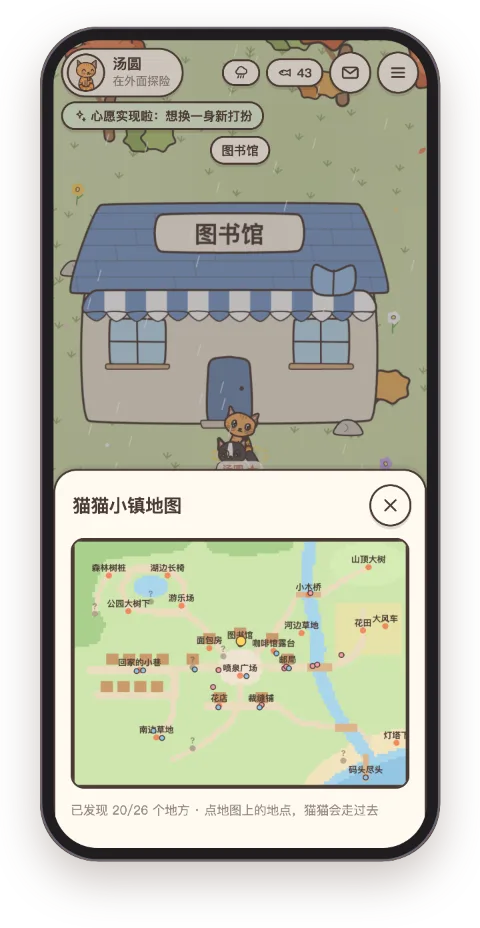
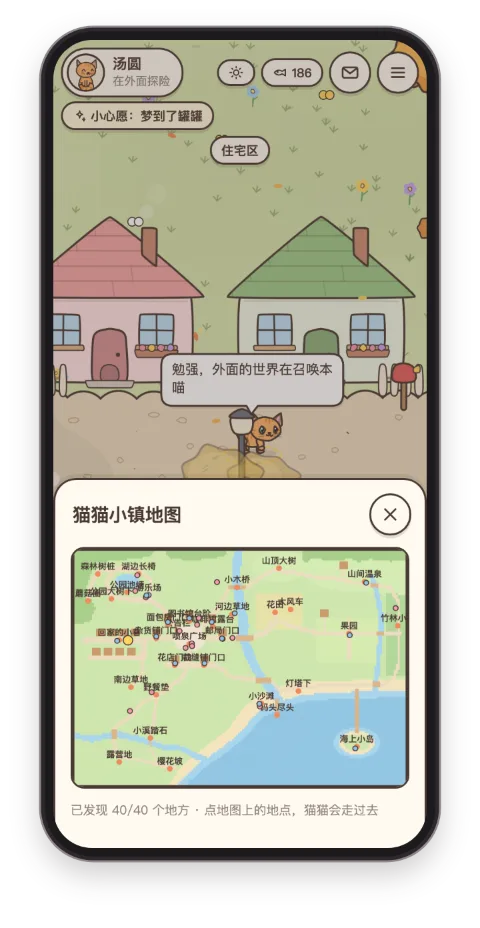
Town friends, docs and screenshots for the bigger town; ask old apps to update
- The cat's profile lists the residents it has got to know.
- Help tips mention the shops and the residents.
- README and website: the new places, the shops, the residents, with new
  screenshots (inside the bakery, a walk with 阿花, the hot spring, the map).
- Clients now say which world version they know; apps that carry the old
  map get one gentle note asking them to update.
- Errands usually go to someone nearby; walk chatter is shared between cats.

diff --git a/server/src/world.ts b/server/src/world.ts
@@ -2,7 +2,7 @@
 // their schedules, meetings, finds, and broadcasting to connected clients.
 import type { WebSocket } from 'ws';
 import type { CatRecord } from '../../shared/types';
-import type { EntState, ServerMsg, ClientMsg } from '../../shared/protocol';
+import { WORLD_VERSION, type EntState, type ServerMsg, type ClientMsg } from '../../shared/protocol';
 import { getWorld, getRooms, roomAt, roomById, planRoute, POIS, POI_MAP, TILE, HOME_SPAWN, walkableAt, zoneAt, poiPoint, ZONE_NAME, type Poi, type Leg, type Room } from '../../shared/world';
 import { roomOpen } from '../../shared/rooms';
 import { NPCS, NPC_MAP, scheduleAt, walkBusy, type NpcDef } from '../../shared/npcs';
@@ -78,6 +78,7 @@ interface Client {
   cats: Set<string>;
   lastPos: number;
   view: { x: number; y: number } | null; // camera centre; null = not watching the world
+  v: number; // world version the client knows (0 = an app from before the town grew)
 }
 
 /** Cosmetic, high-frequency messages only travel to players looking nearby. */
@@ -580,8 +581,8 @@ function tickCompanion(o: Ent, now: number): boolean {
   }
   if (clients.size && now - c.lastSay > 40_000 + (hashf(now) * 30_000)) {
     c.lastSay = now;
-    const name = leader!.st.name;
-    if (o.npc) say(o, npcLine(personaOf(o.npc), `陪着${name}一起散步，走到了${place}`, o.npc.lines));
+    // lines about the place are shared by every cat the resident walks with
+    if (o.npc) say(o, npcLine(personaOf(o.npc), `陪着一只小猫一起散步，走到了${place}`, o.npc.lines));
     else if (o.cat) say(o, catLine(o.cat, 'place', { place }));
   }
   return true;
@@ -675,8 +676,13 @@ async function doSpecial(e: Ent, o: Ent, c: Client, now: number) {
     diary = `${n.name}讲了一个故事：「${lines.join('')}」`;
   } else say(o, npcLine(personaOf(n), `${sp.done}，你对${cat.name}说的话`, n.lines));
   if (sp.errand) {
+    // usually someone nearby, now and then a little journey
     const to = NPCS.filter((x) => x.id !== n.id && x.id !== 'npc_night' && ents.has(x.id));
-    const target = to[Math.floor(Math.random() * to.length)];
+    const [ax, ay] = anchorOf(o.st.x, o.st.y);
+    const target = to.length ? new Rng(now).weighted(to.map((x) => {
+      const [bx, by] = anchorOf(ents.get(x.id)!.st.x, ents.get(x.id)!.st.y);
+      return [x, 1 / (1 + Math.hypot(bx - ax, by - ay) / (25 * TILE)) ** 2] as const;
+    })) : null;
     if (target) {
       setErrand(cat.id, { from: n.id, to: target.id, day: clockAt(now).day });
       diary = `${n.name}托我把一封信送给${target.name}。`;
@@ -1102,7 +1108,11 @@ setInterval(() => {
 }, 30_000).unref();
 
 export function onConnection(ws: WebSocket, uid: string | null, nickname: string) {
-  const c: Client = { ws, uid, nickname, cats: new Set(), lastPos: 0, view: null };
+  const c: Client = { ws, uid, nickname, cats: new Set(), lastPos: 0, view: null, v: 0 };
+  // apps from before the town grew carry the old map: ask them, once, to update
+  setTimeout(() => {
+    if (c.v < WORLD_VERSION && ws.readyState === 1) send(c, { t: 'event', kind: 'update', text: '猫窝更新啦：小镇变大了，店也能进去了。请到官网下载新版 App，网页刷新一下就好' });
+  }, 5000).unref();
   alive.add(ws);
   ws.on('pong', () => alive.add(ws));
   if (uid) for (const cat of game.catsOf(uid)) c.cats.add(cat.id);
@@ -1156,6 +1166,9 @@ function handle(c: Client, m: ClientMsg) {
   const now = Date.now();
   switch (m.t) {
     case 'ping':
+      return;
+    case 'hello':
+      c.v = Number(m.v) || 0;
       return;
     case 'view':
       if (Number.isFinite(m.x) && Number.isFinite(m.y)) c.view = { x: m.x, y: m.y };

diff --git a/client/home.html b/client/home.html
@@ -142,13 +142,26 @@
         <div class="feature">
           <div class="txt">
             <h3 class="px" data-px="14">窝外面，是一整个小镇</h3>
-            <p>喷泉广场、面包房、咖啡馆、图书馆、邮局、花店、公园池塘、森林、小河与木桥、花田风车和灯塔。<b>13 位猫猫居民</b>按自己的作息过日子，所有玩家的猫都在同一个小镇里，会在路上碰鼻子、交朋友。</p>
+            <p>喷泉广场、公园池塘、森林、小河与木桥、花田风车和灯塔；往东是山间温泉、果园和竹林，栈道通向海上小岛；往南有小溪踏石、露营地和樱花坡。所有玩家的猫都在同一个小镇里，会在路上碰鼻子、交朋友。</p>
             <p>看它自己逛，或者「接管」亲自带着它走。小镇有实时的昼夜、雨雪和四季。</p>
           </div>
           <div class="phones">
             <figure><img src="/site/img/phone-world.webp" width="480" height="928" loading="lazy" alt="小镇" /><figcaption>出门探险，捡回小宝贝</figcaption></figure>
-            <figure><img src="/site/img/phone-map.webp" width="480" height="928" loading="lazy" alt="小镇地图" /><figcaption>26 个地方，点一下就走过去</figcaption></figure>
+            <figure><img src="/site/img/phone-map.webp" width="480" height="928" loading="lazy" alt="小镇地图" /><figcaption>33 个地方和 7 家店，点一下就走过去</figcaption></figure>
             <figure><img src="/site/img/phone-social.webp" width="480" height="928" loading="lazy" alt="小镇邻里" /><figcaption>猫友是它自己交的</figcaption></figure>
+          </div>
+        </div>
+
+        <div class="feature">
+          <div class="txt">
+            <h3 class="px" data-px="14">店都能进去，居民会记得你</h3>
+            <p>面包房、咖啡馆、图书馆、杂货铺、邮局、花店和裁缝铺都能走进去坐坐，店主在柜台后面忙活。<b>16 位猫猫居民</b>按自己的作息过日子，每一位都有一件能和你的猫一起做的小事：尝口面包、听个故事、帮忙送信、泡个温泉……</p>
+            <p>常来常往，它们会记得你的猫，路过时叫它的名字；不忙的时候，还会陪它一起逛逛。</p>
+          </div>
+          <div class="phones">
+            <figure><img src="/site/img/phone-shop.webp" width="480" height="928" loading="lazy" alt="面包房里" /><figcaption>走进店里，尝口面包</figcaption></figure>
+            <figure><img src="/site/img/phone-walk.webp" width="480" height="928" loading="lazy" alt="一起散步" /><figcaption>阿花陪它一起逛逛</figcaption></figure>
+            <figure><img src="/site/img/phone-spring.webp" width="480" height="928" loading="lazy" alt="山间温泉" /><figcaption>山间温泉，泡一泡</figcaption></figure>
           </div>
         </div>
 

diff --git a/client/src/ui/Panels.tsx b/client/src/ui/Panels.tsx
@@ -695,6 +695,41 @@ function MapPanel() {
 }
 
 // ---------------- cat profile ----------------
+/** The residents this cat has got to know. */
+function TownFriends({ catId }: { catId: string }) {
+  const [list, setList] = useState<{ id: string; name: string; role: string; level: number; levelName: string; walks: number }[] | null>(null);
+  useEffect(() => {
+    api<typeof list>('GET', `/api/cat/${catId}/townsfolk`)
+      .then(setList)
+      .catch(() => setList([]));
+  }, [catId]);
+  if (!list?.length) return null;
+  return (
+    <>
+      <div class="sec">小镇朋友</div>
+      <div class="list">
+        {list.map((f) => (
+          <div class="row" key={f.id}>
+            <div class="grow">
+              <div class="t1">
+                {f.name}
+                <span class="muted" style={{ fontWeight: 400, marginLeft: 6 }}>
+                  {'♥'.repeat(f.level)}
+                  {'♡'.repeat(3 - f.level)} {f.levelName}
+                </span>
+              </div>
+              <div class="t2">
+                {f.role}
+                {f.walks > 0 ? ` · 一起散过 ${f.walks} 次步` : ''}
+              </div>
+            </div>
+          </div>
+        ))}
+      </div>
+    </>
+  );
+}
+
 function CatPanel() {
   const me = useStore(ui, (s) => s.me)!;
   const cat = me.cats.find((c) => c.id === me.activeCatId) ?? me.cats[0];
@@ -751,6 +786,7 @@ function CatPanel() {
           </div>
         </div>
       </div>
+      <TownFriends catId={cat.id} />
       <div class="sec">羁绊：{bl.name}（Lv.{bl.level}）</div>
       {stat('亲密', Math.min(100, (cat.stats.bond / Math.max(1, bl.next)) * 100), 'var(--pink)')}
       <div class="sec">现在的状态</div>
@@ -932,6 +968,8 @@ function HelpPanel() {
         <div>· 「逗猫」之后，移动鼠标或手指，羽毛会在房间里飞，往墙上举高它会跳起来抓。</div>
         <div>· 「出门」后可以在小镇里看它自己探险；点「接管」就能自己带着它走（键盘 WASD 或拖动屏幕）。</div>
         <div>· 右边的对话按钮可以跟它说话，比如“去河边看看”“回家睡觉”。</div>
+        <div>· 小镇的店都能进去坐坐。点一下店门口，就能带它进去；打烊以后要等第二天。</div>
+        <div>· 点小镇居民，可以和它们做点小事，或者请它们陪你的猫一起逛逛。常来常往，它们会记得你的猫。</div>
         <div>· 它会自己出门、捡回宝贝、交到朋友，晚上一定会回家。你不在的时候它也过得很好，不用担心。</div>
       </div>
     </Sheet>

diff --git a/tests/api.test.ts b/tests/api.test.ts
@@ -9,6 +9,7 @@ import { tmpdir } from 'node:os';
 import { join } from 'node:path';
 import { createServer } from 'node:http';
 import WebSocket from 'ws';
+import { WORLD_VERSION } from '../shared/protocol';
 
 const PORT = 18000 + Math.floor(Math.random() * 1000);
 const BASE = `http://127.0.0.1:${PORT}`;
@@ -246,6 +247,24 @@ test('websocket: cookie only counts from our own pages; the app authenticates by
   const app = new Player('app');
   const appMe = await app.join();
   assert.equal((await open({}, { t: 'auth', token: app.token })).you, appMe.user.id);
+});
+
+test('apps from before the town grew are asked to update; current ones are not', async () => {
+  const listen = (hello: boolean) =>
+    new Promise<string[]>((resolve, reject) => {
+      const ws = new WebSocket(`ws://127.0.0.1:${PORT}/ws`);
+      const kinds: string[] = [];
+      ws.on('open', () => ws.send(JSON.stringify(hello ? { t: 'hello', v: WORLD_VERSION } : { t: 'watch' })));
+      ws.on('message', (d) => {
+        const m = JSON.parse(String(d));
+        if (m.t === 'event') kinds.push(m.kind);
+      });
+      ws.on('error', reject);
+      setTimeout(() => (ws.close(), resolve(kinds)), 6000);
+    });
+  const [old, current] = await Promise.all([listen(false), listen(true)]);
+  assert.deepEqual(old, ['update']);
+  assert.deepEqual(current, []);
 });
 
 test('static files cannot escape dist; html gets security headers', async () => {

diff --git a/scripts/make-site-art.ts b/scripts/make-site-art.ts
@@ -354,7 +354,7 @@ function icons() {
 async function shots() {
   const list: [string, number][] = [
     ['hero', 1600], ['client-web', 1400], ['client-iphone', 900], ['client-android', 900], ['client-mac', 1100], ['client-watch', 900],
-    ...['welcome', 'profile', 'photo', 'night', 'build', 'wardrobe', 'world', 'map', 'social', 'letters', 'journal', 'collection'].map((n) => [`phone-${n}`, 480] as [string, number]),
+    ...['welcome', 'profile', 'photo', 'night', 'build', 'wardrobe', 'world', 'map', 'social', 'shop', 'walk', 'spring', 'letters', 'journal', 'collection'].map((n) => [`phone-${n}`, 480] as [string, number]),
   ];
   for (const [name, maxW] of list) {
     const im = await loadImage(`docs/images/${name}.png`);

diff --git a/client/src/game/net.ts b/client/src/game/net.ts
@@ -1,5 +1,6 @@
 import type { ClientMsg, ServerMsg } from '../../../shared/protocol';
 import { API_BASE, wsUrl } from './platform';
+import { WORLD_VERSION } from '../../../shared/protocol';
 
 // Browsers are signed in with an HttpOnly cookie the page can't read. The native
 // app (no shared cookie jar with the server) holds a bearer token instead.
@@ -74,6 +75,7 @@ export class WorldSocket {
     this.ws = ws;
     ws.onopen = () => {
       if (bearer) ws.send(JSON.stringify({ t: 'auth', token: bearer }));
+      ws.send(JSON.stringify({ t: 'hello', v: WORLD_VERSION }));
       this.connected = true;
       this.retry = 0;
       this.onState?.(true);

diff --git a/shared/protocol.ts b/shared/protocol.ts
@@ -57,4 +57,8 @@ export type ClientMsg =
   | { t: 'explore'; catId: string }
   | { t: 'view'; x: number; y: number } // camera centre, for area-of-interest filtering
   | { t: 'ping' }
-  | { t: 'auth'; token: string }; // first message from clients without a session cookie (native app)
+  | { t: 'auth'; token: string } // first message from clients without a session cookie (native app)
+  | { t: 'hello'; v: number }; // which version of the world this client knows
+
+/** Bumped when the shared world changes shape (map, rooms) so older apps can be told to update. */
+export const WORLD_VERSION = 2;

diff --git a/README.md b/README.md
@@ -138,17 +138,26 @@
 
 ### 窝外面，是一整个小镇
 
-一张 120×90 格的大地图：喷泉广场、面包房、咖啡馆、图书馆、邮局、花店、裁缝铺、公园池塘、森林、小河与木桥、花田风车、山顶大树、沙滩和灯塔。
+一张 172×124 格的大地图：喷泉广场、公园池塘、森林、小河与木桥、花田风车、山顶大树、沙滩和灯塔；往东翻过山坡是冒着热气的山间温泉、一排排果树的果园和竹林小径，沿着栈道能走到海上小岛；往南过了小溪踏石，是露营地和樱花坡。
 
-**13 位猫猫居民按自己的作息过日子**：面包房老板娘清晨揉面，邮递员阿信挨家送信，棉花奶奶在巷口织毛线，阿乐傍晚在喷泉边弹琴，图书管理员墨墨守着图书馆，深夜还有阿月的热羊奶摊。所有玩家的猫都在同一个小镇里，会在路上碰鼻子、交朋友。
+**镇上的店都能走进去。** 面包房、咖啡馆、图书馆、杂货铺、邮局、花店和裁缝铺各有自己的屋子，店主在柜台后面忙活，别人家的猫也可能正趴在里面。天黑以后店会打烊，只有咖啡馆开到深夜。
 
-你可以看它自己逛，也可以「接管」亲自带着它走，点别的猫或居民去打个招呼。小镇有实时的昼夜、雨雪和四季：春天的樱花，秋天的枫叶，冬天的雪顶和猫耳雪人。
+**16 位猫猫居民按自己的作息过日子**：面包房老板娘清晨揉面，邮递员阿信挨家送信，棉花奶奶在巷口织毛线，阿乐傍晚在喷泉边弹琴，果果爷爷守着果园，汤汤泡在温泉边，旅行家阿旅在营地讲远方，深夜还有阿月的热羊奶摊。每位居民都有一件能和你的猫一起做的小事：尝一口刚出炉的面包、听墨墨讲个故事、帮阿信送一封信、泡个温泉……常来常往，它们会记得你的猫，路过时叫它的名字。
+
+**也可以请居民陪它一起逛。** 不忙的居民和小镇的猫会跟在它身边，一路走一路聊，到了该上班的时候再笑着道别。所有玩家的猫都在同一个小镇里，会在路上碰鼻子、交朋友。
+
+你可以看它自己逛，也可以「接管」亲自带着它走。小镇有实时的昼夜、雨雪和四季：春天的樱花和果花，秋天的枫叶和红苹果，冬天的雪顶和猫耳雪人。
 
 <table>
 <tr>
-<td width="33%" align="center"><img src="docs/images/phone-world.png" alt="小镇" width="100%"><br><sub><b>出门探险</b><br>它会自己逛，捡回 32 种按季节出现的宝贝</sub></td>
-<td width="33%" align="center"><img src="docs/images/phone-map.png" alt="小镇地图" width="100%"><br><sub><b>小镇地图</b><br>26 个地方，点一下它就走过去</sub></td>
+<td width="33%" align="center"><img src="docs/images/phone-world.png" alt="小镇" width="100%"><br><sub><b>出门探险</b><br>它会自己逛，捡回 41 种按季节出现的宝贝</sub></td>
+<td width="33%" align="center"><img src="docs/images/phone-map.png" alt="小镇地图" width="100%"><br><sub><b>小镇地图</b><br>33 个地方和 7 家店，点一下它就走过去</sub></td>
 <td width="33%" align="center"><img src="docs/images/phone-social.png" alt="小镇邻里" width="100%"><br><sub><b>邻里</b><br>猫友是它自己交的；可以串门、贴纸条、共养</sub></td>
+</tr>
+<tr>
+<td width="33%" align="center"><img src="docs/images/phone-shop.png" alt="面包房里，麦麦递来刚出炉的面包" width="100%"><br><sub><b>走进店里</b><br>麦麦掰了一小块刚出炉的鱼形面包</sub></td>
+<td width="33%" align="center"><img src="docs/images/phone-walk.png" alt="小镇的小孩阿花陪着汤圆散步" width="100%"><br><sub><b>一起逛逛</b><br>阿花跟在旁边，一路走一路聊</sub></td>
+<td width="33%" align="center"><img src="docs/images/phone-spring.png" alt="山间温泉，汤圆趴在温泉边" width="100%"><br><sub><b>山间温泉</b><br>汤汤说：泡一泡，什么烦恼都化开了</sub></td>
 </tr>
 </table>
 
